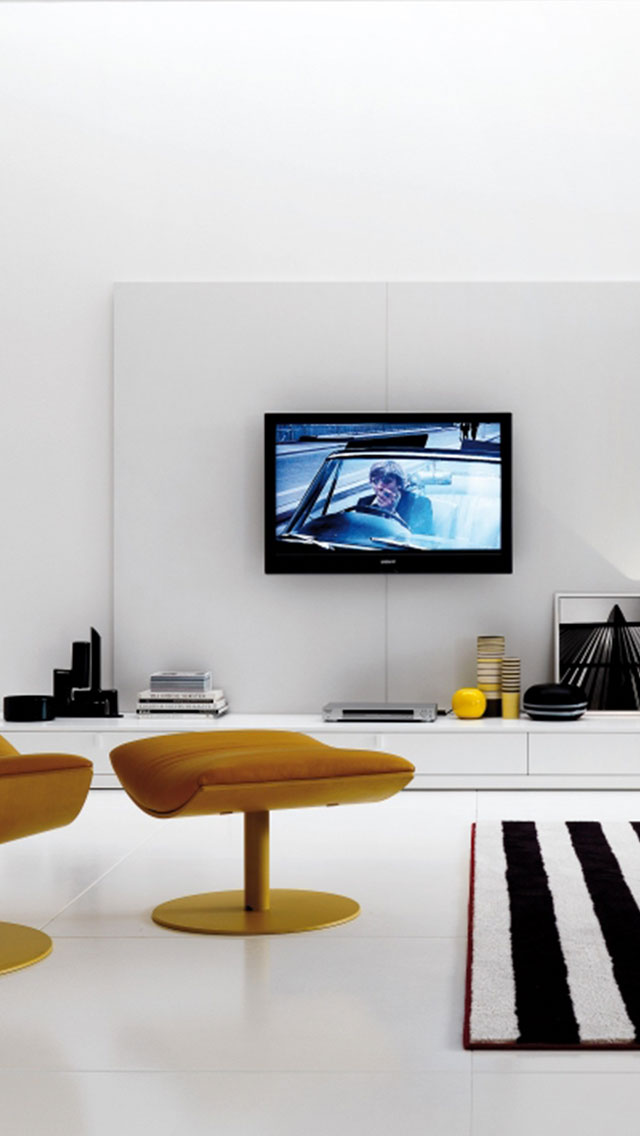
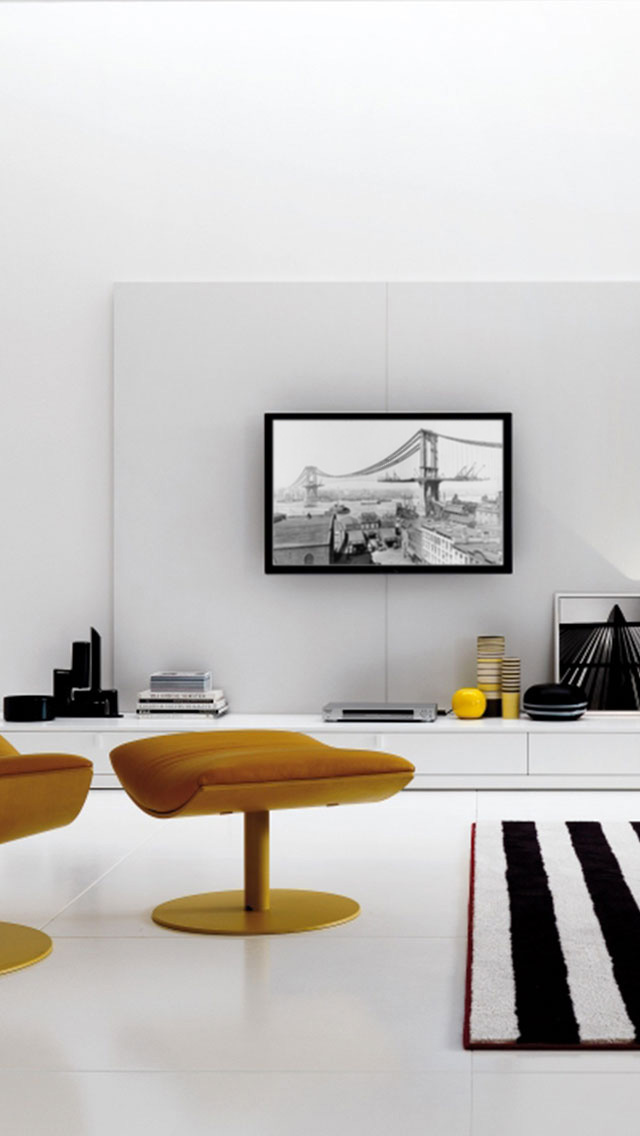
Updated FTUE for cash flow with chart. Also changed TV backgound to picture.

Changed region(s): [[0.4062, 0.3697, 0.8125, 0.5238]]

diff --git a/HomeBuyer/HomeBuyer/Controller/kCATIntroLifestyleViewController.m b/HomeBuyer/HomeBuyer/Controller/kCATIntroLifestyleViewController.m
@@ -42,7 +42,7 @@
                      @"Est. Income Tax" : [NSNumber numberWithFloat:homeEstTaxesPaid],
                      @"Monthly Payment" : [NSNumber numberWithFloat:totalMonthlyPayment]};
         
-    self.mHomeLifeStyleChart = [[ShinobiChart alloc] initWithFrame:CGRectMake(5, 107, 310, 220)];
+    self.mHomeLifeStyleChart = [[ShinobiChart alloc] initWithFrame:CGRectMake(5, 117, 310, 220)];
     self.mHomeLifeStyleChart.autoresizingMask =  ~UIViewAutoresizingNone;
     self.mHomeLifeStyleChart.licenseKey = SHINOBI_LICENSE_KEY;
         
@@ -56,7 +56,7 @@
     self.mHomeLifeStyleChart.legend.style.symbolCornerRadius = @0;
     self.mHomeLifeStyleChart.legend.style.borderColor = [UIColor darkGrayColor];
     self.mHomeLifeStyleChart.legend.style.cornerRadius = @0;
-    self.mHomeLifeStyleChart.legend.position = SChartLegendPositionMiddleRight;
+    self.mHomeLifeStyleChart.legend.position = SChartLegendPositionMiddleLeft;
     self.mHomeLifeStyleChart.legend.placement = SChartLegendPlacementOutsidePlotArea;
     self.mHomeLifeStyleChart.plotAreaBackgroundColor = [UIColor clearColor];
         
@@ -75,12 +75,14 @@
     
     UILabel* label = [[UILabel alloc] initWithFrame:CGRectMake(160, 50, 250, 70)];
     label.center = CGPointMake(self.view.center.x, label.center.y);
-    label.numberOfLines = 3;
+    label.numberOfLines = 2;
     label.textAlignment = NSTextAlignmentCenter;
-    label.text = @"See how a home purchase affects your cash flow.";
+    label.text = @"See how a home purchase affects your monthly cash flow.";
     label.font = [UIFont fontWithName:@"cocon" size:16];
     label.textColor = [Utilities getKunanceBlueColor];
     [self.view addSubview:label];
+    
+    [self setupChart];
     
     Mixpanel *mixpanel = [Mixpanel sharedInstance];
     [mixpanel track:@"Looked at FTUE Screen 1 - Lifestyle" properties:Nil];
@@ -112,10 +114,10 @@ atPixelCoordinate:(CGPoint)pixelPoint
     pieSeries.style.showCrust = NO;
     pieSeries.animationEnabled = YES;
     NSMutableArray* colors = [[NSMutableArray alloc] init];
-    [colors addObject:[UIColor colorWithRed:155.0/255.0 green:89.0/255.0 blue:182.0/255.0 alpha:0.8]];
-    [colors addObject:[UIColor colorWithRed:211.0/255.0 green:84.0/255.0 blue:0.0/255.0 alpha:0.9]];
-    [colors addObject:[UIColor colorWithRed:241.0/255.0 green:196.0/255.0 blue:15.0/255.0 alpha:0.9]];
-    [colors addObject:[UIColor colorWithRed:22.0/255.0 green:160.0/255.0 blue:133.0/255.0 alpha:0.9]];
+    [colors addObject:[UIColor colorWithRed:155.0/255.0 green:89.0/255.0 blue:182.0/255.0 alpha:1.0]];
+    [colors addObject:[UIColor colorWithRed:211.0/255.0 green:84.0/255.0 blue:0.0/255.0 alpha:1.0]];
+    [colors addObject:[UIColor colorWithRed:241.0/255.0 green:196.0/255.0 blue:15.0/255.0 alpha:1.0]];
+    [colors addObject:[UIColor colorWithRed:22.0/255.0 green:160.0/255.0 blue:133.0/255.0 alpha:1.0]];
     pieSeries.style.flavourColors = colors;
     pieSeries.selectedStyle.flavourColors = colors;
     return pieSeries;

diff --git a/HomeBuyer/HomeBuyer/Controller/kCATIntroTaxViewController.m b/HomeBuyer/HomeBuyer/Controller/kCATIntroTaxViewController.m
@@ -42,7 +42,7 @@
     self.mTaxSavingsChart.xAxis = xAxis;
     self.mTaxSavingsChart.backgroundColor = [UIColor clearColor];
     SChartAxis *yAxis = [[SChartNumberAxis alloc] init];
-    yAxis.rangePaddingHigh = @10000.0;
+    yAxis.rangePaddingHigh = @500.0;
     self.mTaxSavingsChart.yAxis = yAxis;
  //   yAxis.title = @"Dollars ($)";
     self.mTaxSavingsChart.legend.hidden = NO;
@@ -73,19 +73,19 @@
     backImage.image = [UIImage imageNamed:@"home-interior_03.jpg"];
     [self.view addSubview:backImage];
 
-    UILabel* label = [[UILabel alloc] initWithFrame:CGRectMake(160, 40, 250, 70)];
+    UILabel* label = [[UILabel alloc] initWithFrame:CGRectMake(160, 40, 280, 70)];
     label.center = CGPointMake(self.view.center.x, label.center.y);
-    label.numberOfLines = 3;
+    label.numberOfLines = 2;
     label.textAlignment = NSTextAlignmentCenter;
-    label.text = @"Compare income tax savings across homes before you buy.";
+    label.text = @"Compare annual income tax savings across homes before you buy.";
     label.font = [UIFont fontWithName:@"cocon" size:16];
     label.textColor = [Utilities getKunanceBlueColor];
     [self.view addSubview:label];
     
     //chart related
     
-    homeTaxSavings[0] = @{@"Income Tax ($)" : @30000};
-    homeTaxSavings[1] = @{@"Income Tax ($)" : @45000};
+    homeTaxSavings[0] = @{@"Est. Annual Income Tax ($)" : @6000};
+    homeTaxSavings[1] = @{@"Est. Annual Income Tax ($)" : @7800};
     
     [self setupChart];
     
@@ -113,13 +113,13 @@
     lineSeries.animationEnabled = YES;
     if(index == 0) {
         lineSeries.title = @"Home 1";
-        lineSeries.style.areaColor = [UIColor colorWithRed:243.0/255.0 green:156.0/255.0 blue:18.0/255.0 alpha:0.85];
-        lineSeries.style.areaColorGradient = [UIColor colorWithRed:230.0/255.0 green:126.0/255.0 blue:34.0/255.0 alpha:0.95];
+        lineSeries.style.areaColor = [UIColor colorWithRed:155.0/255.0 green:89.0/255.0 blue:182.0/255.0 alpha:0.85];
+        lineSeries.style.areaColorGradient = [UIColor colorWithRed:142.0/255.0 green:68.0/255.0 blue:173.0/255.0 alpha:0.95];
     }
     if(index == 1) {
         lineSeries.title = @"Home 2";
-        lineSeries.style.areaColor = [UIColor colorWithRed:46.0/255.0 green:204.0/255.0 blue:113.0/255.0 alpha:0.85];
-        lineSeries.style.areaColorGradient = [UIColor colorWithRed:39.0/255.0 green:174.0/255.0 blue:96.0/255.0 alpha:0.95];
+        lineSeries.style.areaColor = [UIColor colorWithRed:52.0/255.0 green:152.0/255.0 blue:219.0/255.0 alpha:0.85];
+        lineSeries.style.areaColorGradient = [UIColor colorWithRed:41.0/255.0 green:128.0/255.0 blue:185.0/255.0 alpha:0.95];
     }
     return lineSeries;
 }
